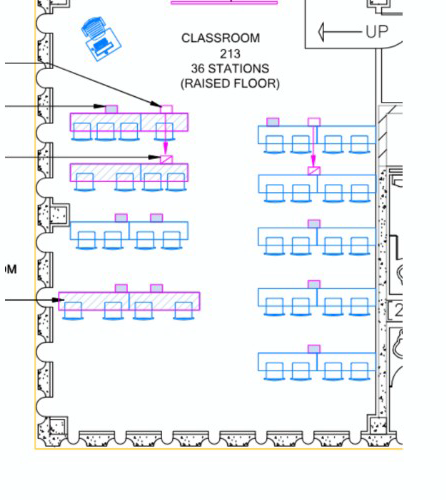
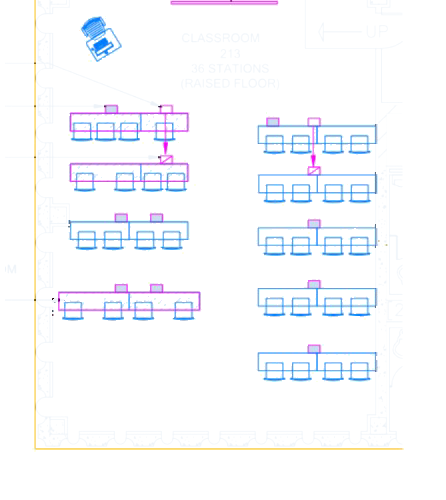
fix(payne-213): knockout classroom plan paper so only drawing lines sit on the dark viewer

diff --git a/components/splat-lab/PaynePlanBoard.tsx b/components/splat-lab/PaynePlanBoard.tsx
@@ -4,7 +4,7 @@ export function PaynePlanBoard({ planSrc }: { planSrc: string }) {
   return (
     <div className="mx-auto max-w-lg px-4 py-6">
       {/* eslint-disable-next-line @next/next/no-img-element */}
-      <img src={planSrc} alt="Payne Hall 213 target layout" className="w-full invert" />
+      <img src={planSrc} alt="Payne Hall 213 target layout" className="w-full" />
       <p className="mt-3 text-[13px] text-[var(--mkt-canvas)]/70">
         Pink tables stay in 213. Tables on the left with arrows move to Sun Devil Hall.
       </p>
